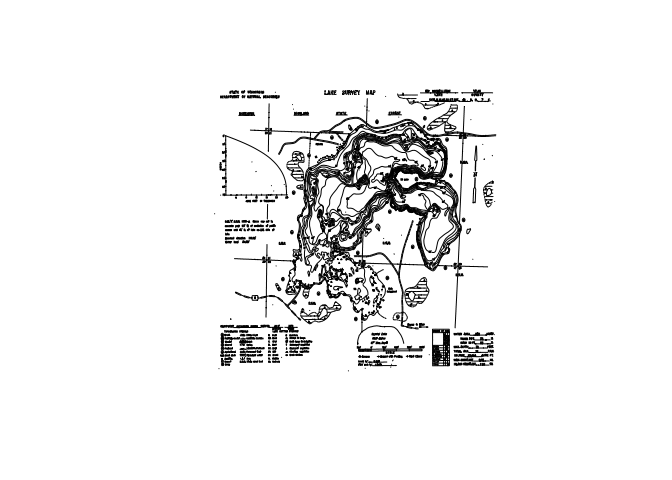
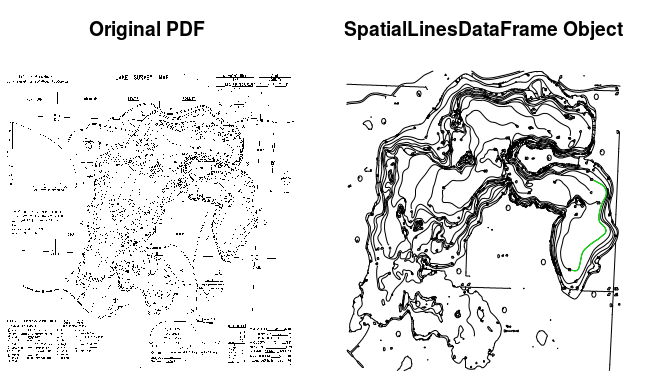
respectable lines output

diff --git a/README.md b/README.md
@@ -18,8 +18,6 @@ devtools::install_github("jsta/contour2bathy")
 [Potential Tools and Workflow](https://grasswiki.osgeo.org/wiki/Trace_vector_contours_from_a_scanned_map)
 ---------------------------------------------------------------------------------------------------------
 
--   Inkscape?
-
 -   GRASS
 
 -   R
@@ -31,8 +29,15 @@ Usage
  library(contour2bathy)
  pdf <- system.file("extdata/1835300a.pdf", package = "contour2bathy")
  res <- contour_read(pdf_path = pdf)
- par(mfrow = c(1,1))
- sp::plot(res)
+ par(mfrow = c(1,2))
+ par(mar = c(0,0,3,0))
+ sp::plot(res$raster, col = "black", axes = FALSE, box = FALSE, legend = FALSE, main = "Original PDF")
+ sp::plot(res$lines, main = "SpatialLinesDataFrame Object")
+ 
+ class(res$lines)
+ 
+ longest_line <- res$lines[which.max(sp::SpatialLinesLengths(res$lines)),]
+ sp::plot(longest_line, add = TRUE, col = "green")
 ```
 
 ![](images/unnamed-chunk-2-1.png)
